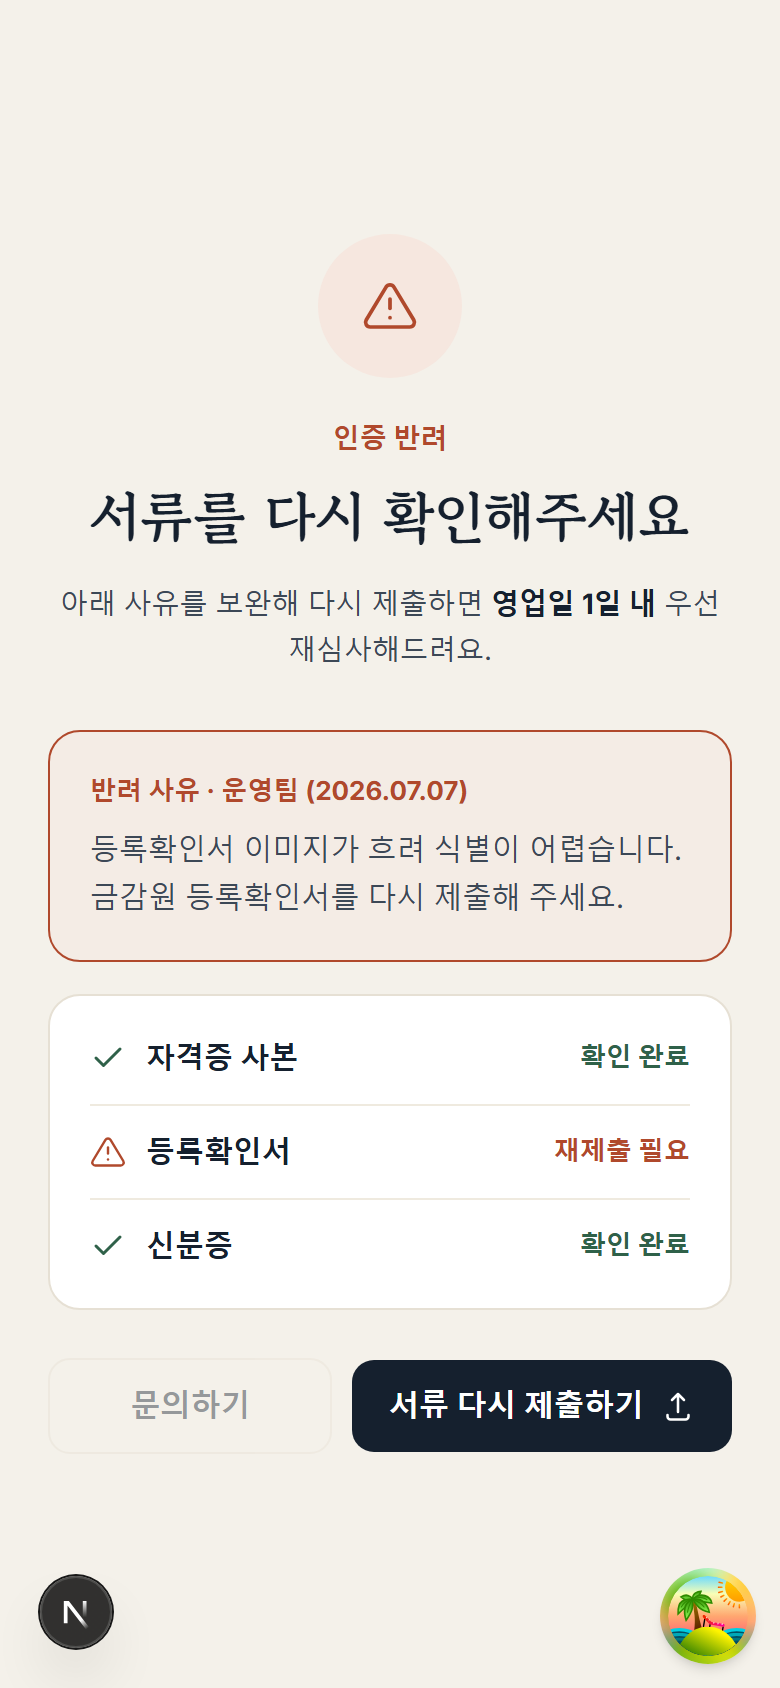
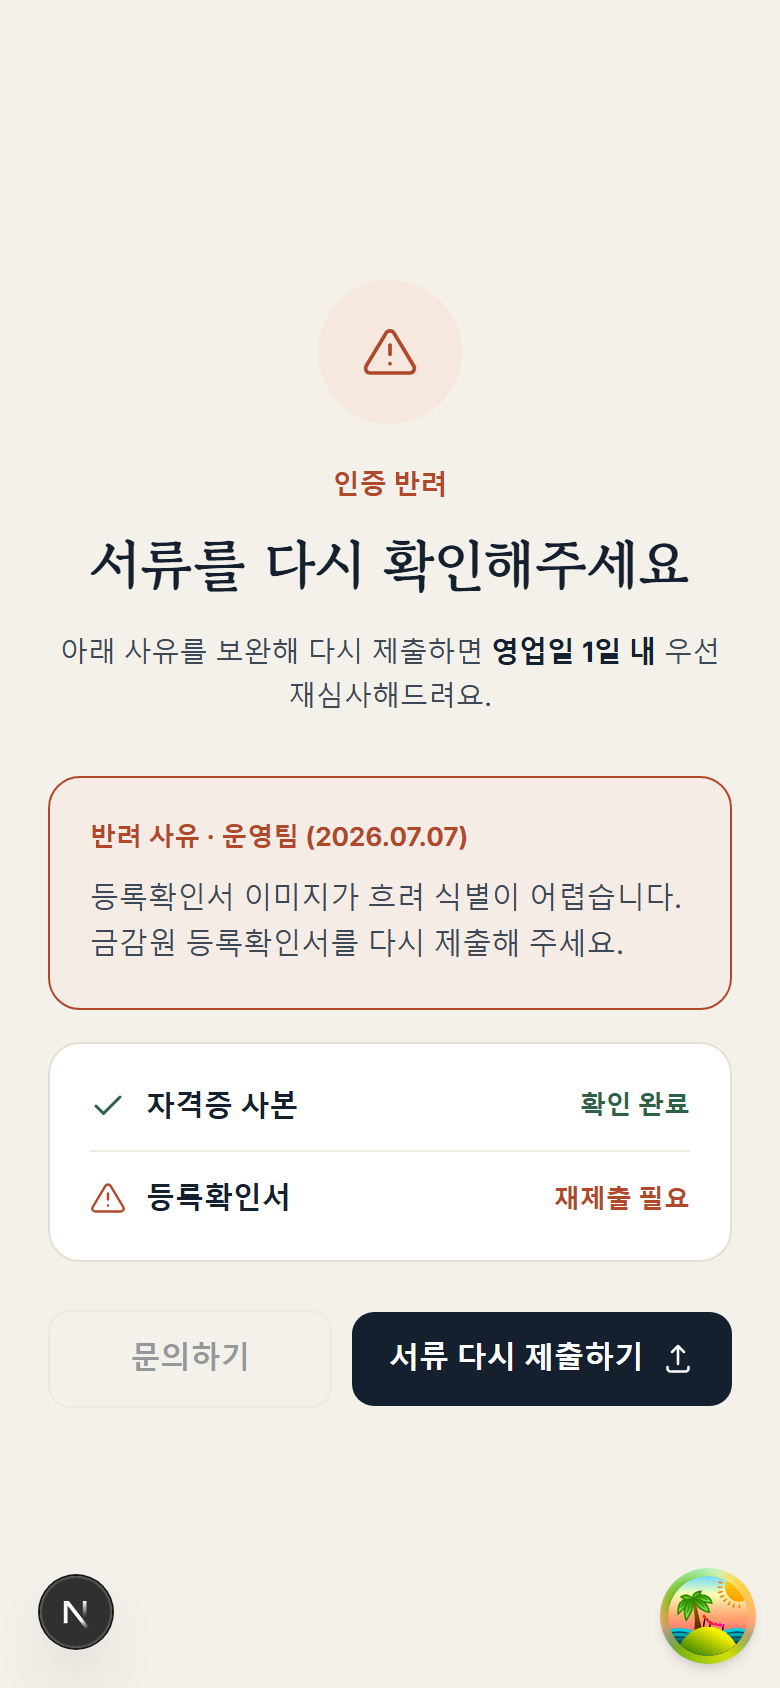
docs : 자격 인증 API 명세 초안 갱신
* 연락처·전문분야 필드 정의 요청 항목 정리
* 신분증 필드 삭제 요청 및 이메일 미수집 반영

diff --git a/.pr-assets/api-spec-draft-adjuster-verification.md b/.pr-assets/api-spec-draft-adjuster-verification.md
@@ -1,0 +1,88 @@
+# API 명세 추가/확장 초안 — 손해사정사 자격 인증 (이슈 #44)
+
+> 목적: 기확정된 `POST /users/adjuster-applications` body에 **UI 수집 필드(phone·specialties)** 를 정의하고, **신분증(idCardImageUrl) 제거**와 **반려 후 재제출 방식**을 명세에 확정하기 위한 초안.
+> **경로·필드는 백엔드 확정이 단일 진실.** 아래 3개 엔드포인트는 Notion API 명세서 DB에 이미 존재(경로/봉투/에러코드/상태 enum 확정). 본 초안은 **body 변경 + 재제출 상태전이**만 제안한다(신규 엔드포인트 아님).
+
+## 대상 엔드포인트 (기존, 확정)
+| 경로 | 메서드 | 도메인 | 비고 |
+|------|--------|--------|------|
+| `/users/adjuster-applications` | POST | user | 자격 신청 생성 (body 변경 제안 대상) |
+| `/users/adjuster-applications/me` | GET | user | 본인 신청 상태 조회(심사/반려 분기) |
+| `/uploads` | POST | report | multipart 파일 업로드 → `{ url }` |
+
+접근 권한: 로그인 필수. 비로그인 → `401 LOGIN_REQUIRED`. 대상 role = `UNCERTIFICATED_ADJUSTER`.
+
+## 제안 1 — 신청 body에 `phone`·`specialties` 정의 추가
+
+### 배경
+Figma 모바일 신청 퍼널(STEP1 연락처 / STEP2 전문분야 복수 선택)이 수집하나, 현행 `POST /users/adjuster-applications` body에는 **필드가 없다**. FE는 확장 스키마(`adjusterApplicationExtendedBodySchema`)로 전송 중이며, 명세 확정 시 본 스키마로 병합한다.
+
+### 추가 요청 필드 (request body)
+| 필드 | 타입 | 필수 | 출처(UI) | 비고 · 확정 질의 |
+|------|------|:---:|---------|-----------------|
+| `phone` | string | Y | Figma 모바일 STEP1 연락처 | 형식 `010-0000-0000`. 저장 대상 컬럼? `USER.phone`과 동일값인지, 신청 스냅샷인지 |
+| `specialties` | string[] | N | Figma 모바일 STEP2 전문분야 복수 선택 | 값셋: 후유장해 · 교통사고 · 실손 의료비 · 암·진단비 · 배상책임(대인) · 산재 연계. **자격구분 `speciality`(신체/종합)와 별개 개념.** 프로필 `specialties`(`/adjusters/me/profile`)와 동일 값셋인지 확인 |
+
+> ⚠ 확정 필요: 두 필드를 신청 시점에 저장할지(스냅샷) vs 프로필/유저에서 파생할지. 미저장이면 FE는 전송을 제외하도록 정정한다.
+
+### 제거 요청 필드
+| 필드 | 현행 명세 | 요청 | 사유 |
+|------|:---:|:---:|------|
+| `idCardImageUrl` | Y (필수) | **삭제** | Figma 신청 화면(PC 131-10583 / 모바일 STEP3 1143-8632)에 **신분증 업로드 항목이 없음**. 기획 확정으로 신분증 수집 자체를 폐지 |
+| `email` | (없음) | 정의 불필요 | 신청 시 재수집 안 함(가입 계정 이메일 사용) |
+
+- 이에 따라 **증빙 서류는 자격증 사본(`licenseImageUrl`)·등록증(`registrationImageUrl`) 2종**만 남는다.
+- 상태 조회 응답의 `documents[].type`에서도 **`ID_CARD` 제거** 필요(현행 FE는 `LICENSE`·`REGISTRATION` 2종만 파싱).
+
+## 제안 2 — 반려 후 재제출 방식 (재-POST 재허용)
+
+### 배경
+명세는 최초 `POST`만 정의. 반려(REJECTED) 후 재제출 경로가 미정이라, 재-POST 시 `409 DUPLICATE_RESOURCE` 충돌 우려.
+
+### 제안 상태전이
+| 현재 상태 | 재-POST 결과 |
+|-----------|-------------|
+| 미신청 | `201` + `PENDING` 생성 |
+| `PENDING` / `APPROVED` | `409 DUPLICATE_RESOURCE` (중복 신청 차단) |
+| `REJECTED` | **`201` + `PENDING` 재생성 허용** (재제출) |
+
+- 대안: `PATCH /users/adjuster-applications/me` 또는 `POST .../me/resubmit` 별도 경로. **⚠ 백엔드 확정 필요** — REJECTED에서 재-POST 허용 vs 전용 resubmit 경로 중 택1.
+- FE/MSW는 확정 전까지 **"REJECTED에서 재-POST 201 재허용"** 가정으로 구현.
+
+## `GET /users/adjuster-applications/me` — 상태 응답
+### Response `200`
+```json
+{
+  "status": "200",
+  "message": "정상 처리되었습니다.",
+  "data": {
+    "applicationId": "<uuid>",
+    "status": "PENDING | APPROVED | REJECTED",
+    "submittedAt": "<ISO>",
+    "name": "<string>",
+    "speciality": "신체 | 종합",
+    "licenseNo": "<string|null>",
+    "documents": [{ "type": "LICENSE|REGISTRATION", "status": "PENDING|APPROVED|RESUBMIT_REQUIRED" }],
+    "rejectedAt": "<ISO|null>",
+    "rejectReason": "<string|null>"
+  }
+}
+```
+### 실패 봉투
+```json
+{ "status": "404", "code": "POST_NOT_FOUND", "message": "신청 이력이 없습니다." }
+{ "status": "401", "code": "LOGIN_REQUIRED", "message": "로그인이 필요합니다." }
+```
+- FE는 `404 POST_NOT_FOUND`를 에러가 아닌 정상 분기(`NOT_APPLIED` → 신청 폼)로 처리.
+
+## 백엔드 확정 대기 항목
+1. **`phone` 정의** — 신청 body 추가 여부·필수 여부·저장 컬럼.
+2. **`specialties` 정의** — 신청 body 추가 여부·값셋(프로필 `specialties`와 동일 여부).
+3. **`idCardImageUrl` 삭제** — 신청 body 및 상태 조회 `documents[].type`(`ID_CARD`)에서 제거.
+4. **반려 후 재제출** — REJECTED 재-POST 허용 vs 전용 PATCH/resubmit 경로.
+5. `licenseNo`(UI "손해사정사 등록번호") ↔ 등록증(`registrationImageUrl`) 개념 구분 확인.
+
+## 확정 후 조치
+1. Notion API 명세서 DB `POST /users/adjuster-applications` 행 body 갱신(phone·specialties 추가, idCardImageUrl 삭제) + `GET .../me` documents type 갱신 + 재제출 방식 반영.
+2. `_model/adjuster-application.schema.ts`·MSW 핸들러를 확정 shape 거울로 정정(확장 스키마 → 명세 스키마 병합).
+3. naming-dictionary §3 갱신(phone·specialties 추가, idCardImageUrl·ID_CARD 제거).
